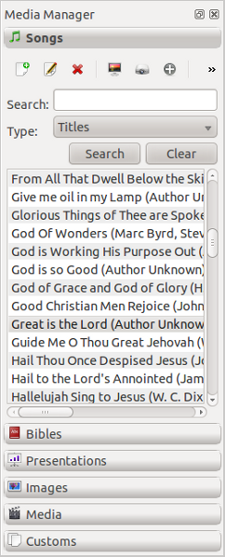
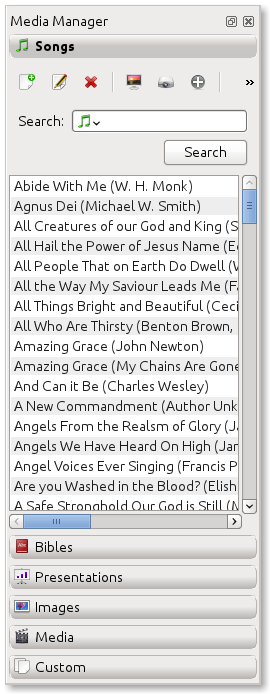
added troubleshooting section corrected a couple of screenshots also

diff --git a/documentation/manual/source/troubleshooting.rst b/documentation/manual/source/troubleshooting.rst
@@ -1,0 +1,117 @@
+===============
+Troubleshooting
+===============
+
+I can not play videos or other media
+====================================
+
+If you can not play video or audio through openlp, there are several areas that
+could be an issue. First thing is to make sure you can play the media file 
+through your default media player. OpenLP should be able to play any file that
+you can play through your default media player.
+
+If you can play a file through your media player but not on OpenLP it may help
+to enable Phonon for multimedia playback. Go to the OpenLP configuration
+:menuselection:`Settings --> Configure OpenLP...` and select the Media tab.
+Make sure the check box for `Use Phonon for video playback` is checked.
+
+.. image:: pics/phononcheckbox.png
+
+Codecs
+------
+
+You may need to install codecs for certain files to play. Most newer versions 
+of Windows and OS X will support most media types. Most Linux distributions 
+will require a little more help to get certain media types to play.
+
+Microsoft Windows
+^^^^^^^^^^^^^^^^^
+
+Later versions of Microsoft Windows (Vista, Windows 7) generally come with 
+everything you need to play most media formats. If for some reason you need 
+additional codecs we have seen success from the Combined Community Codec Pack
+(CCCP): http://www.cccp-project.net/  You might also wish to check out the
+K-Lite Codec Pack. If you are having issues, results do seem to vary with the 
+different options. What works for some may not for others, so some trial and 
+error may be required.
+
+Mac
+^^^
+
+If you are using a Mac. You may wish to play Windows formats. flip4mac enables
+you to use popular Windows formats such as .wmv on your Mac. You can get it 
+here http://dynamic.telestream.net/downloads/download-flip4macwmv.htm
+
+Ubuntu Linux (and variants)
+^^^^^^^^^^^^^^^^^^^^^^^^^^^
+
+If you are using Ubuntu Linux, or one of its variants (Kubuntu, Edubuntu, etc...)
+it is a fairly quick and easy process to get all the codecs you need to make 
+things work. You will need to install two meta-packages that contain all the 
+multimedia codecs that you will generally need. From the Software Center install
+ubuntu-restricted-extras and Kubuntu-restricted-extras, or from the terminal::
+ 
+  user@linux:~ $ sudo apt-get install ubuntu-restricted-extras kubuntu-restricted-extras
+
+**Note** if you are running Kubuntu there is no need to install the
+ubuntu-restricted-extras meta-package
+
+For more information on Ubuntu and multimedia issues please check out
+https://help.ubuntu.com/community/RestrictedFormats/
+
+Arch Linux
+^^^^^^^^^^
+
+The following command provides the most complete solution for codecs on Arch
+Linux::
+  
+  root@linux:~ # pacman -S gstreamer0.10-{base,good,bad,ugly}-plugins gstreamer0.10-ffmpeg
+
+If you need more help with Arch Linux and multimedia please see the Arch Linux
+documentation at https://wiki.archlinux.org/index.php/Codecs
+
+Debian Linux
+^^^^^^^^^^^^
+
+You will need to add the Debian Multimedia Repository. So to /etc/apt/sources.list::
+
+  deb http://www.debian-multimedia.org testing main non-free
+
+Then install the following packages::
+
+  root@linux:~ # apt-get install gstreamer0.10-ffmpeg gstreamer0.10-ffmpeg-dbg gstreamer0.10-lame gstreamer0.10-plugins-really-bad gstreamer0.10-plugins-bad gstreamer0.10-plugins-ugly gstreamer0.10-plugins-good gstreamer0.10-x264
+
+Fedora Linux
+^^^^^^^^^^^^
+You will need to set up Fedora to play most media formats. This is relatively
+simple using the rpmfusion repository. 
+
+**Note** the following commands will enable a third party repository to your 
+system. Please check out http://rpmfusion.org for more information.
+
+To enable both the free and nonfree components for any Fedora official release
+enter the following commands::
+
+  su -c 'yum localinstall --nogpgcheck http://download1.rpmfusion.org/free/fedora/rpmfusion-free-release-stable.noarch.rpm http://download1.rpmfusion.org/nonfree/fedora/rpmfusion-nonfree-release-stable.noarch.rpm'
+
+After enabling the rpmfusion repository you will want to refresh your package
+list, perform any updates and search for gstreamer-good, bad, and ugly and
+install.
+
+Here is a good tutorial video on the rpmfusion repository 
+http://www.linuxjournal.com/video/getting-mp3-support-fedora-using-rpmfusion-repositories
+
+The Media Manager appears to be missing some features
+=====================================================
+
+If you do not see all the features listed in the Media Manager, you may need
+to enable them. 
+
+To enable the plugins navigate to :menuselection:`Settings --> Plugins` or
+press `F7`. You will want to click on the plugin to the left that you want to 
+enable and select **active** from the drop down box to the right.
+
+.. image:: pics/plugins.png
+
+By default all plugins should be enabled during the first run wizard except the
+remotes plugin, unless you specify differently.

diff --git a/documentation/manual/source/index.rst b/documentation/manual/source/index.rst
@@ -19,3 +19,4 @@ Contents:
    themes
    mediamanager
    songs
+   troubleshooting
